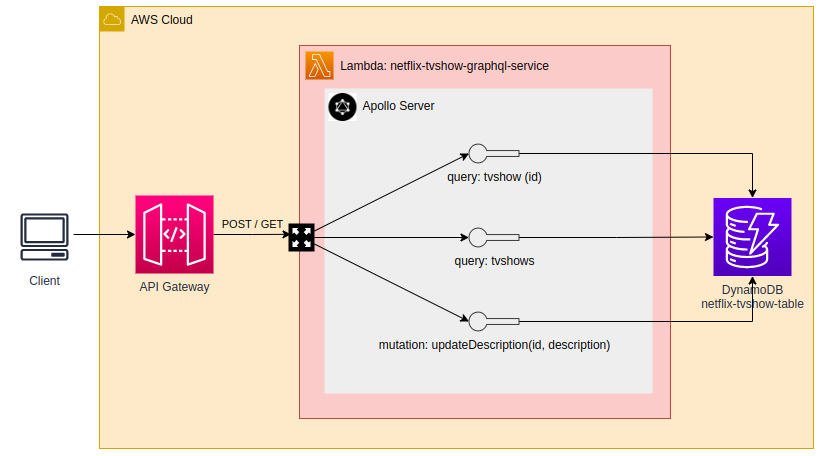
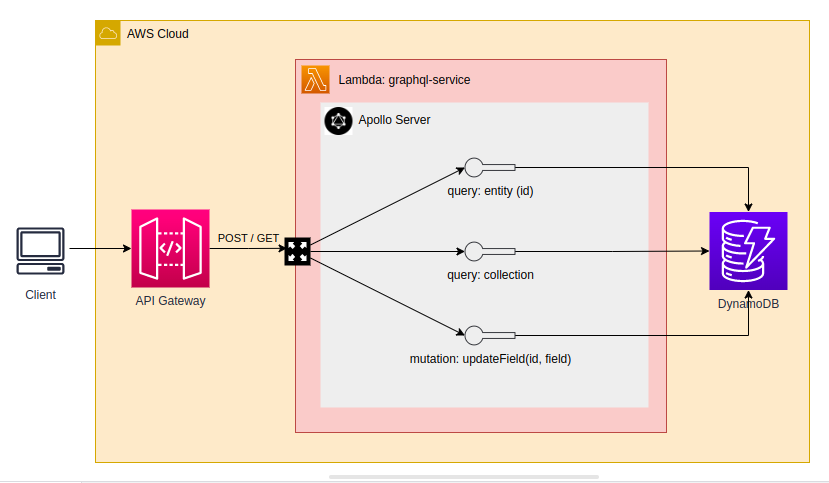
adjust README

diff --git a/README.md b/README.md
@@ -6,9 +6,13 @@ This API is supposed to query Netflix TV Shows from a database.
 
 ![AWS Arch Design](./assets/architecture.png)
 
+A GraphQL Apollo Server is bootstraped within an Lambda function using a an Apollo integration lib, designed for this puorpose.
+
+![AWS Arch Design](./assets/server.png)
+
 GraphQL client view:
 
-![CW Dashboard](./assets/graphql-dashboard.png)
+![GraphQL Dashboard](./assets/graphql-dashboard.png)
 
 ##### ___Schema___
 __query__:
